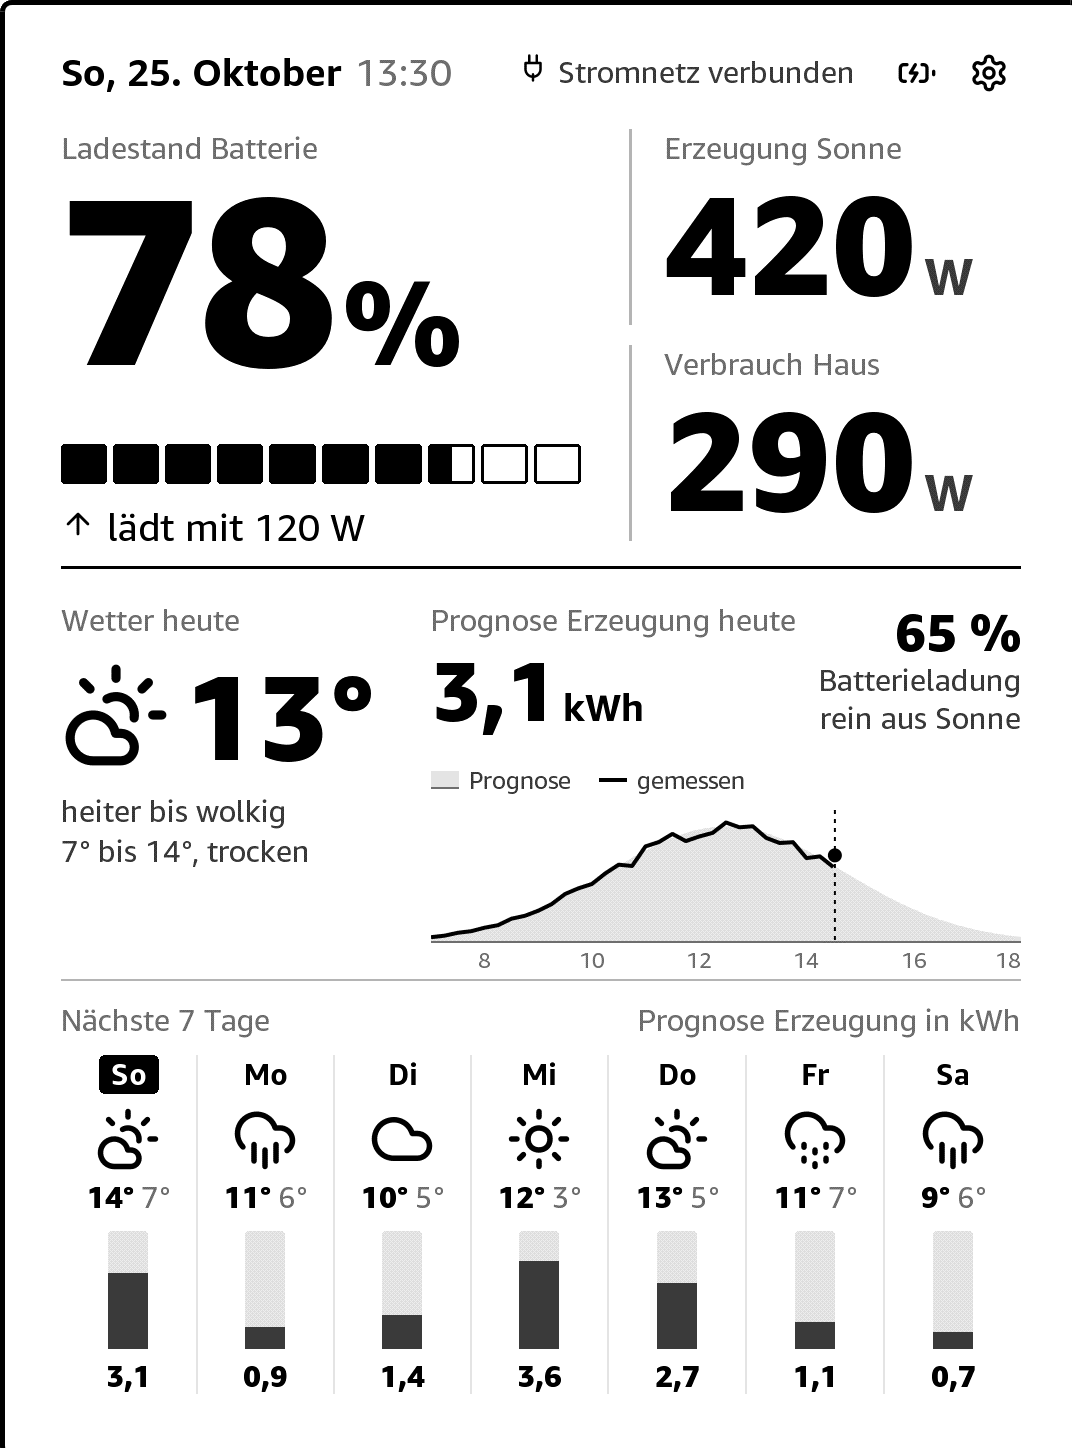
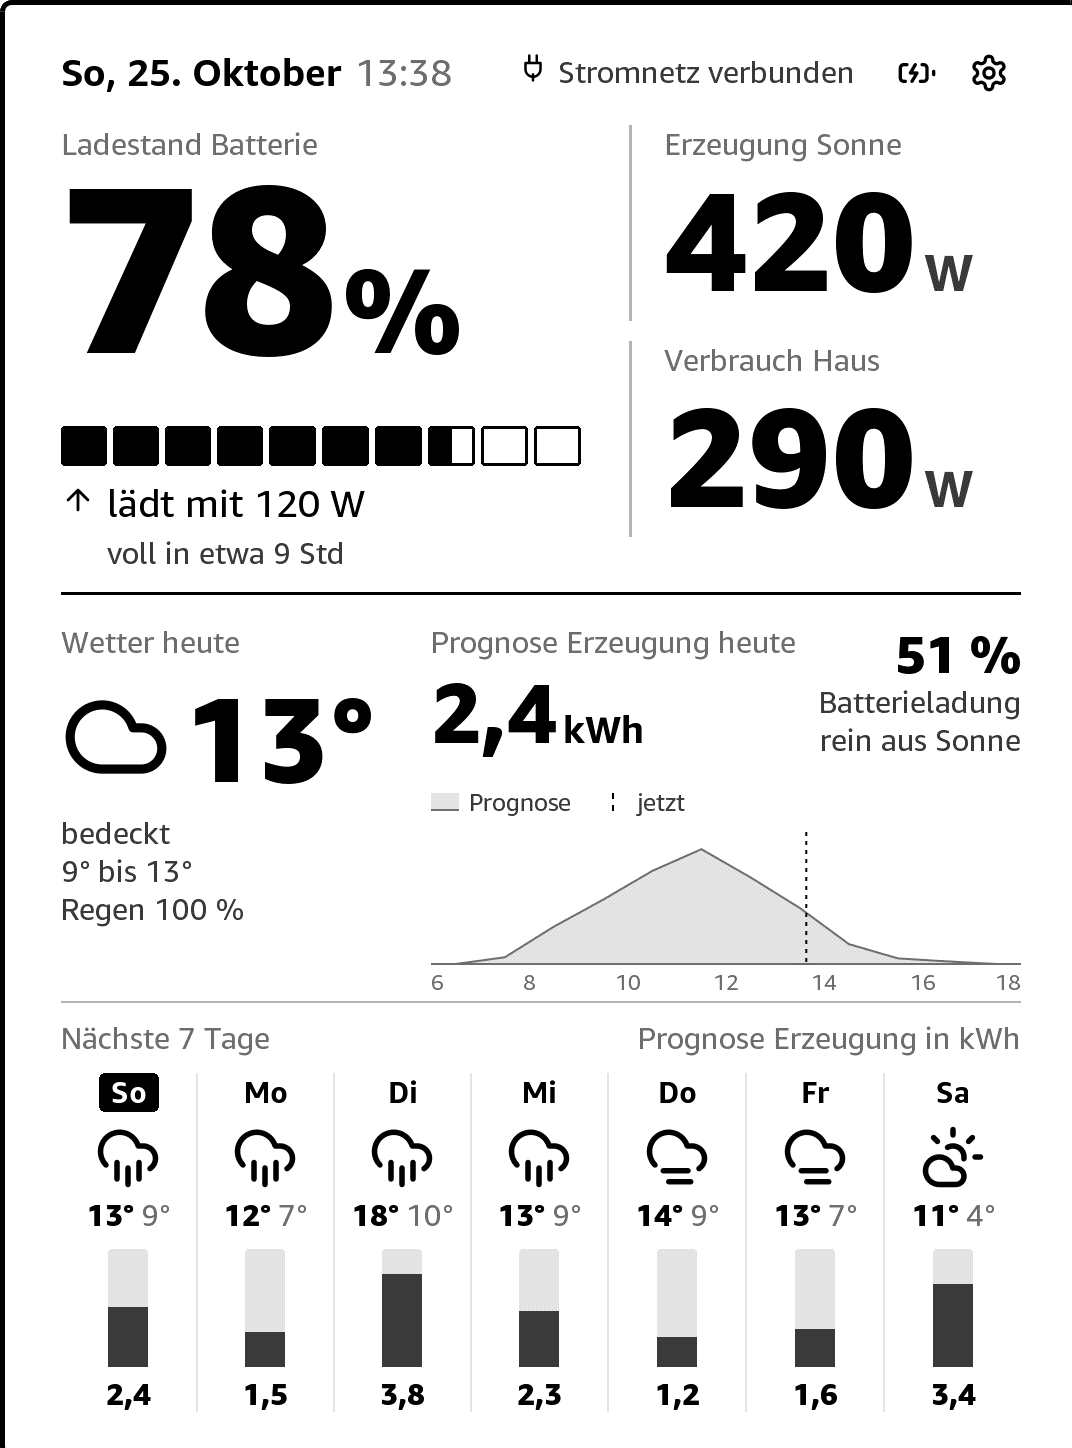
Echtes Wetter, PV-Prognose und Restzeit der Batterie
Wetter und Prognose kommen von Open-Meteo (DWD-Modelle, ohne Konto):
aktuelle Temperatur, 7 Tage mit Höchst- und Tiefstwert und
Regenwahrscheinlichkeit, dazu die Einstrahlung auf die geneigte
Modulfläche. Daraus die erwartete Erzeugung je Stunde und Tag. Die
Anlage ist vorerst mit Schätzwerten hinterlegt (Hamm, 1,2 kWp, 35°,
Süd, 80 % Wirkungsgrad), bis der Einrichtungsassistent sie abfragt.
Abruf alle 30 Minuten, die letzte Prognose bleibt 12 Stunden im
Speicher, falls das Netz fehlt.

Unter der Batterieleistung steht jetzt grob die Restzeit: »voll in
etwa 9 Std« beim Laden, »noch etwa 11 Std« beim Entladen. Im
Netzbetrieb bis zur ESS-Mindestladung von 70 %, bei Stromausfall
bis 10 %. Die Anlagenwerte selbst sind weiter Beispiele.

diff --git a/kindle/web/app.js b/kindle/web/app.js
@@ -7,30 +7,46 @@
 
   var AKKU_KWH = 4.8;
   var LADELEISTUNG_W = 1800;
+  // Untergrenzen fürs Entladen: im Netzbetrieb hält ESS die Mindestladung,
+  // bei Stromausfall läuft der Akku bis zur Abschaltung. Später vom GX lesen.
+  var MIN_SOC_NETZ = 70;
+  var MIN_SOC_AUSFALL = 10;
+
+  // Standort und Anlage, später aus dem Einrichtungsassistenten
+  var ANLAGE = { lat: 51.68, lon: 7.82, kwp: 1.2, neigung: 35, azimut: 0, wirkungsgrad: 0.8 };
+  var WETTER_MINUTEN = 30;
   var WOCHENTAGE = ["So", "Mo", "Di", "Mi", "Do", "Fr", "Sa"];
   var MONATE = ["Januar", "Februar", "März", "April", "Mai", "Juni", "Juli",
     "August", "September", "Oktober", "November", "Dezember"];
 
-  // Beispielwerte, später vom GX (Node-RED) und von Open-Meteo
-  var daten = {
-    soc: 78,
-    akkuW: 120,
-    pvW: 420,
-    hausW: 290,
-    stromausfallSeit: "14:05",
-    letzteWerte: "14:12",
-    wetter: { icon: "sonne-wolke", temp: 13, text: "heiter bis wolkig", min: 7, max: 14, regen: "trocken" },
-    kwhHeute: 3.1,
-    woche: [
-      ["sonne-wolke", 14, 7, 3.1],
-      ["regen", 11, 6, 0.9],
-      ["wolke", 10, 5, 1.4],
-      ["sonne", 12, 3, 3.6],
-      ["sonne-wolke", 13, 5, 2.7],
-      ["niesel", 11, 7, 1.1],
-      ["regen", 9, 6, 0.7]
-    ]
+  // Anlagenwerte sind noch Beispiele, später vom GX (Node-RED)
+  var BEISPIEL = {
+    normal: { soc: 78, akkuW: 120, pvW: 420, hausW: 290 },
+    netzausfall: { soc: 78, akkuW: -290, pvW: 0, hausW: 290 }
   };
+  var daten = {
+    soc: 78, akkuW: 120, pvW: 420, hausW: 290,
+    stromausfallSeit: "14:05",
+    letzteWerte: "14:12"
+  };
+
+  // Wetter und Prognose von Open-Meteo, aufbereitet von prognoseAufbereiten()
+  var prognose = null;
+
+  // WMO-Wettercodes zu Symbol und Text
+  var WETTER = {
+    0: ["sonne", "klar"], 1: ["sonne", "überwiegend klar"], 2: ["sonne-wolke", "teils bewölkt"],
+    3: ["wolke", "bedeckt"], 45: ["nebel", "Nebel"], 48: ["nebel", "Reifnebel"],
+    51: ["niesel", "leichter Niesel"], 53: ["niesel", "Niesel"], 55: ["niesel", "starker Niesel"],
+    56: ["niesel", "gefrierender Niesel"], 57: ["niesel", "gefrierender Niesel"],
+    61: ["regen", "leichter Regen"], 63: ["regen", "Regen"], 65: ["regen", "starker Regen"],
+    66: ["regen", "gefrierender Regen"], 67: ["regen", "gefrierender Regen"],
+    71: ["schnee", "leichter Schnee"], 73: ["schnee", "Schnee"], 75: ["schnee", "starker Schnee"],
+    77: ["schnee", "Schneegriesel"], 80: ["regen", "Regenschauer"], 81: ["regen", "Regenschauer"],
+    82: ["regen", "starke Schauer"], 85: ["schnee", "Schneeschauer"], 86: ["schnee", "Schneeschauer"],
+    95: ["gewitter", "Gewitter"], 96: ["gewitter", "Gewitter mit Hagel"], 99: ["gewitter", "Gewitter mit Hagel"]
+  };
+  function wetterCode(c) { return WETTER[c] || ["wolke", ""]; }
 
   var einstellungen = { ausrichtung: "hoch", zustand: "normal" };
   var netzladung = false;
@@ -92,7 +108,36 @@
     $("laden-knopf").className = "knopf-icon" + (netzladung ? " aktiv" : "");
   }
 
+  // Grob reicht: ab 2 Stunden ganze Stunden, darunter Minuten in Zehnern
+  function dauer(stunden) {
+    if (stunden > 48) { return "über 2 Tage"; }
+    if (stunden >= 2) { return Math.round(stunden) + " Std"; }
+    return Math.max(10, Math.round(stunden * 6) * 10) + " Min";
+  }
+
+  // Wie lange reicht der Akku, oder wann ist er voll
+  function restzeit() {
+    var w = daten.akkuW, kwh;
+    if (netzladung) {
+      kwh = (100 - daten.soc) / 100 * AKKU_KWH;
+      return kwh > 0 ? "voll in etwa " + dauer(kwh * 1000 / LADELEISTUNG_W) : "";
+    }
+    if (w > 30 && daten.soc < 100) {
+      kwh = (100 - daten.soc) / 100 * AKKU_KWH;
+      return "voll in etwa " + dauer(kwh * 1000 / w);
+    }
+    if (w < -30) {
+      var grenze = einstellungen.zustand === "netzausfall" ? MIN_SOC_AUSFALL : MIN_SOC_NETZ;
+      kwh = (daten.soc - grenze) / 100 * AKKU_KWH;
+      if (kwh <= 0) { return "Reserve erreicht"; }
+      return "noch etwa " + dauer(kwh * 1000 / -w);
+    }
+    return "";
+  }
+
   function hauptwerte() {
+    var b = BEISPIEL[einstellungen.zustand === "netzausfall" ? "netzausfall" : "normal"], k;
+    for (k in b) { if (b.hasOwnProperty(k)) { daten[k] = b[k]; } }
     $("soc").innerHTML = daten.soc + "<span>%</span>";
     var zellen = "", i, voll = daten.soc / 10;
     for (i = 0; i < 10; i++) {
@@ -104,61 +149,140 @@
     } else if (daten.akkuW >= 0) {
       $("richtung").innerHTML = icon("pfeil-hoch") + "lädt mit " + daten.akkuW + " W";
     } else {
-      $("richtung").innerHTML = icon("pfeil-runter") + "gibt " + (-daten.akkuW) + " W ab";
+      $("richtung").innerHTML = icon("pfeil-runter") + "entlädt mit " + (-daten.akkuW) + " W";
     }
+    $("restzeit").innerHTML = restzeit();
     $("pv").innerHTML = daten.pvW + "<span>W</span>";
     $("haus").innerHTML = daten.hausW + "<span>W</span>";
     $("letzte-werte").innerHTML = "letzte Werte um " + daten.letzteWerte;
   }
 
-  function wetter() {
-    var w = daten.wetter;
-    $("wetter-icon").innerHTML = '<use xlink:href="#' + w.icon + '"/>';
-    $("temp").innerHTML = w.temp + "°";
-    $("wetter-text").innerHTML = w.text + "<br>" + w.min + "° bis " + w.max + "°, " + w.regen;
-    $("kwh-heute").innerHTML = komma(daten.kwhHeute, 1) + "<span>kWh</span>";
-    $("anteil").innerHTML = Math.round(daten.kwhHeute / AKKU_KWH * 100) + " %";
+  // --- Wetter und Prognose ---------------------------------------------------
+
+  function wetterUrl() {
+    return "https://api.open-meteo.com/v1/forecast?latitude=" + ANLAGE.lat + "&longitude=" + ANLAGE.lon +
+      "&current=temperature_2m,weather_code" +
+      "&daily=weather_code,temperature_2m_max,temperature_2m_min,precipitation_probability_max" +
+      "&hourly=global_tilted_irradiance&tilt=" + ANLAGE.neigung + "&azimuth=" + ANLAGE.azimut +
+      "&timezone=Europe%2FBerlin&forecast_days=7";
   }
 
-  // Tageskurve: erwartete Leistung als Fläche, gemessene als Linie bis jetzt
+  // Erzeugung je Stunde in W: Einstrahlung auf die Modulfläche mal Leistung mal Verluste
+  function watt(gti) { return ANLAGE.kwp * gti * ANLAGE.wirkungsgrad; }
+
+  function prognoseAufbereiten(r) {
+    var tage = [], stunden = {}, i, datum, stunde;
+    for (i = 0; i < r.hourly.time.length; i++) {
+      datum = r.hourly.time[i].substr(0, 10);
+      stunde = parseInt(r.hourly.time[i].substr(11, 2), 10);
+      if (!stunden[datum]) { stunden[datum] = []; }
+      stunden[datum][stunde] = watt(r.hourly.global_tilted_irradiance[i] || 0);
+    }
+    for (i = 0; i < r.daily.time.length; i++) {
+      datum = r.daily.time[i];
+      var summe = 0, s, w = stunden[datum] || [];
+      for (s = 0; s < w.length; s++) { summe += w[s] || 0; }
+      tage.push({
+        datum: datum,
+        code: r.daily.weather_code[i],
+        max: Math.round(r.daily.temperature_2m_max[i]),
+        min: Math.round(r.daily.temperature_2m_min[i]),
+        regen: r.daily.precipitation_probability_max[i],
+        kwh: summe / 1000,
+        stunden: w
+      });
+    }
+    return {
+      geholt: new Date().getTime(),
+      temp: Math.round(r.current.temperature_2m),
+      code: r.current.weather_code,
+      tage: tage
+    };
+  }
+
+  function wetterHolen() {
+    var x = new XMLHttpRequest();
+    x.open("GET", wetterUrl(), true);
+    x.onreadystatechange = function () {
+      if (x.readyState !== 4) { return; }
+      if (x.status === 200) {
+        try {
+          prognose = prognoseAufbereiten(JSON.parse(x.responseText));
+          localStorage.setItem("kindledash.prognose", JSON.stringify(prognose));
+        } catch (e) { /* alte Prognose bleibt stehen */ }
+        wetter(); kurve(); woche();
+      }
+    };
+    x.send();
+  }
+
+  function wetterAusSpeicher() {
+    try {
+      var p = JSON.parse(localStorage.getItem("kindledash.prognose") || "null");
+      // älter als 12 Stunden zeigen wir nicht mehr
+      if (p && new Date().getTime() - p.geholt < 12 * 3600000) { prognose = p; }
+    } catch (e) { /* ohne Speicher eben ohne */ }
+  }
+
+  function wetter() {
+    if (!prognose) { return; }
+    var h = prognose.tage[0], c = wetterCode(prognose.code);
+    // innerHTML in einem svg-Element kann der alte Browser nicht, also das ganze Symbol ersetzen
+    $("wetter-icon").innerHTML = icon(c[0]);
+    $("temp").innerHTML = prognose.temp + "°";
+    $("wetter-text").innerHTML = c[1] + "<br>" + h.min + "° bis " + h.max + "°<br>" +
+      (h.regen >= 20 ? "Regen " + h.regen + " %" : "trocken");
+    $("kwh-heute").innerHTML = komma(h.kwh, 1) + "<span>kWh</span>";
+    $("anteil").innerHTML = Math.min(100, Math.round(h.kwh / AKKU_KWH * 100)) + " %";
+  }
+
+  // Tageskurve: erwartete Leistung je Stunde als Fläche, dazu die aktuelle Uhrzeit.
+  // Die gemessene Linie kommt dazu, sobald der GX Werte liefert.
   function kurve() {
-    var W = ausrichtung() === "quer" ? 676 : 590, H = 170, unten = 140;
-    var von = 7, bis = 18, spitze = 640, h, s = 3, w;
+    if (!prognose) { return; }
+    var quer = ausrichtung() === "quer";
+    var W = quer ? 676 : 590, H = quer ? 160 : 170, unten = H - 30;
+    var w = prognose.tage[0].stunden, von = 24, bis = 0, spitze = 100, s;
+    for (s = 0; s < 24; s++) {
+      if ((w[s] || 0) > 5) { von = Math.min(von, s - 1); bis = Math.max(bis, s); }
+      spitze = Math.max(spitze, (w[s] || 0) * 1.15);
+    }
+    if (von >= bis) { von = 8; bis = 17; }
+    von = Math.floor(von / 2) * 2; bis = Math.ceil(bis / 2) * 2;
     function x(stunde) { return (stunde - von) / (bis - von) * W; }
-    function y(watt) { return unten - watt / spitze * (unten - 8); }
-    function erwartet(stunde) { return 560 * Math.exp(-Math.pow(stunde - 12.5, 2) / (2 * 2.2 * 2.2)); }
-    var flaeche = "M0 " + unten, linie = "";
-    for (h = von; h <= bis + 1e-9; h += 0.25) { flaeche += " L" + x(h).toFixed(1) + " " + y(erwartet(h)).toFixed(1); }
+    function y(wert) { return unten - wert / spitze * (unten - 8); }
+    // Open-Meteo gibt den Mittelwert der vorangegangenen Stunde, also eine halbe Stunde früher zeichnen
+    var flaeche = "M0 " + unten;
+    for (s = von; s <= bis; s++) { flaeche += " L" + x(Math.max(von, s - 0.5)).toFixed(1) + " " + y(w[s] || 0).toFixed(1); }
     flaeche += " L" + W + " " + unten + " Z";
-    var jetztH = 14.53;
-    for (h = von; h <= jetztH; h += 0.25) {
-      s = (s * 9301 + 49297) % 233280;
-      w = erwartet(h) * (0.9 + 0.16 * s / 233280);
-      linie += (linie ? " L" : "M") + x(h).toFixed(1) + " " + y(w).toFixed(1);
+    var achse = "", k;
+    for (k = von; k <= bis; k += 2) {
+      achse += '<text x="' + x(k) + '" y="' + (H - 4) + '" font-size="22" fill="#6e6e6e" text-anchor="' +
+        (k === von ? "start" : (k === bis ? "end" : "middle")) + '">' + k + "</text>";
     }
-    var achse = "", stunden = [8, 10, 12, 14, 16, 18], k;
-    for (k = 0; k < stunden.length; k++) {
-      achse += '<text x="' + x(stunden[k]) + '" y="166" font-size="22" fill="#6e6e6e" text-anchor="' +
-        (stunden[k] === 18 ? "end" : "middle") + '">' + stunden[k] + "</text>";
+    var jetzt = new Date(), jh = jetzt.getHours() + jetzt.getMinutes() / 60, marke = "";
+    if (jh > von && jh < bis) {
+      marke = '<line x1="' + x(jh) + '" y1="8" x2="' + x(jh) + '" y2="' + unten +
+        '" stroke="#000" stroke-width="2" stroke-dasharray="4 5"/>';
     }
-    var jx = x(jetztH);
     $("kurve").innerHTML = '<svg width="' + W + '" height="' + H + '" viewBox="0 0 ' + W + " " + H + '">' +
-      '<path d="' + flaeche + '" fill="#e4e4e4"/>' +
+      '<path d="' + flaeche + '" fill="#e4e4e4" stroke="#6e6e6e" stroke-width="2"/>' +
       '<line x1="0" y1="' + unten + '" x2="' + W + '" y2="' + unten + '" stroke="#6e6e6e" stroke-width="2"/>' +
-      '<path d="' + linie + '" fill="none" stroke="#000" stroke-width="4" stroke-linejoin="round"/>' +
-      '<line x1="' + jx + '" y1="8" x2="' + jx + '" y2="' + unten + '" stroke="#000" stroke-width="2" stroke-dasharray="4 5"/>' +
-      '<circle cx="' + jx + '" cy="' + y(daten.pvW) + '" r="7" fill="#000"/>' + achse + "</svg>";
+      marke + achse + "</svg>";
   }
 
   function woche() {
-    var heute = new Date().getDay(), html = "", i, t;
-    for (i = 0; i < daten.woche.length; i++) {
-      t = daten.woche[i];
+    if (!prognose) { return; }
+    var html = "", i, t, d;
+    for (i = 0; i < prognose.tage.length; i++) {
+      t = prognose.tage[i];
+      // der alte Browser liest ISO-Datumsangaben nicht zuverlässig, also selbst zerlegen
+      d = new Date(+t.datum.substr(0, 4), +t.datum.substr(5, 2) - 1, +t.datum.substr(8, 2), 12);
       html += '<div class="tag' + (i === 0 ? " heute-tag" : "") + '">' +
-        '<div class="name">' + WOCHENTAGE[(heute + i) % 7] + "</div>" + icon(t[0]) +
-        '<div class="t">' + t[1] + "°<span>" + t[2] + "°</span></div>" +
-        '<div class="saeule"><i style="height:' + Math.min(100, Math.round(t[3] / AKKU_KWH * 100)) + '%"></i></div>' +
-        '<div class="e">' + komma(t[3], 1) + "</div></div>";
+        '<div class="name">' + WOCHENTAGE[d.getDay()] + "</div>" + icon(wetterCode(t.code)[0]) +
+        '<div class="t">' + t.max + "°<span>" + t.min + "°</span></div>" +
+        '<div class="saeule"><i style="height:' + Math.min(100, Math.round(t.kwh / AKKU_KWH * 100)) + '%"></i></div>' +
+        '<div class="e">' + komma(t.kwh, 1) + "</div></div>";
     }
     $("woche").innerHTML = html;
   }
@@ -235,8 +359,12 @@
   }
 
   laden();
+  wetterAusSpeicher();
   alles();
   if (einstellungen.zustand === "laden") { oeffne("dialog-laden"); }
   document.addEventListener("click", klick, false);
   setInterval(kopf, 30000);
+  setInterval(kurve, 10 * 60000);
+  wetterHolen();
+  setInterval(wetterHolen, WETTER_MINUTEN * 60000);
 })();

diff --git a/kindle/web/app.css b/kindle/web/app.css
@@ -58,18 +58,19 @@ body.quer #kopf-hintergrund { height: 112px; }
 
 /* Hauptwerte */
 #haupt { position: absolute; }
-body.hoch #haupt { left: 56px; top: 124px; width: 960px; height: 440px; border-bottom: 3px solid #000; }
+body.hoch #haupt { left: 56px; top: 120px; width: 960px; height: 470px; border-bottom: 3px solid #000; }
 body.quer #haupt { left: 48px; top: 120px; width: 620px; height: 912px; }
 
-#akku .wert { font-size: 236px; line-height: 200px; margin-top: 8px; letter-spacing: -4px; }
+#akku .wert { font-size: 236px; line-height: 200px; margin-top: 0; letter-spacing: -4px; }
 #akku .wert span { font-size: 120px; margin-left: 8px; letter-spacing: 0; }
-.zellen { display: -webkit-box; height: 40px; margin-top: 24px; }
+.zellen { display: -webkit-box; height: 40px; margin-top: 18px; }
 .zellen i { display: block; -webkit-box-flex: 1; height: 40px; margin-right: 6px; border: 3px solid #000; border-radius: 4px; }
 .zellen i:last-child { margin-right: 0; }
 .zellen i.voll { background: #000; }
 .zellen i.halb { background: -webkit-linear-gradient(left, #000 50%, #fff 50%); }
-.richtung { margin-top: 20px; font-size: 38px; display: -webkit-box; -webkit-box-align: center; }
+.richtung { margin-top: 14px; font-size: 38px; display: -webkit-box; -webkit-box-align: center; }
 .richtung svg { width: 34px; height: 34px; margin-right: 12px; }
+.restzeit { margin-top: 6px; margin-left: 46px; font-size: 30px; color: #3a3a3a; white-space: nowrap; }
 body.hoch #akku { position: absolute; left: 0; top: 0; width: 520px; }
 body.quer #akku { position: absolute; left: 0; top: 10px; width: 620px; }
 
@@ -92,7 +93,7 @@ body.offline #getrennt { display: block; }
 
 /* Heute */
 #heute { position: absolute; }
-body.hoch #heute { left: 56px; top: 596px; width: 960px; height: 380px; border-bottom: 2px solid #b4b4b4; }
+body.hoch #heute { left: 56px; top: 618px; width: 960px; height: 380px; border-bottom: 2px solid #b4b4b4; }
 body.quer #heute { left: 724px; top: 120px; width: 676px; height: 520px; border-bottom: 2px solid #b4b4b4; }
 body.quer #haupt { border-right: 0; }
 #trenner { display: none; position: absolute; left: 696px; top: 130px; width: 3px; height: 900px; background: #000; }
@@ -100,9 +101,10 @@ body.quer #trenner { display: block; }
 
 #wetter { position: absolute; left: 0; top: 0; width: 350px; }
 #wetter .zeile { height: 130px; margin-top: 10px; white-space: nowrap; }
+#wetter-icon, #wetter-icon svg { display: inline-block; vertical-align: middle; }
 #wetter .zeile svg { display: inline-block; vertical-align: middle; width: 110px; height: 110px; margin-right: 14px; }
 #wetter .temp { display: inline-block; vertical-align: middle; font-size: 120px; line-height: 130px; }
-#wetter .text { font-size: 30px; color: #3a3a3a; margin-top: 12px; line-height: 40px; }
+#wetter .text { font-size: 30px; color: #3a3a3a; margin-top: 12px; line-height: 38px; white-space: nowrap; }
 #prognose { position: absolute; }
 body.hoch #prognose { left: 370px; top: 0; width: 590px; }
 /* Querformat: Wetter links oben, Prognose rechts daneben, Kurve über die ganze Breite */
@@ -111,7 +113,8 @@ body.quer #wetter .temp { font-size: 104px; }
 body.quer #wetter .zeile svg { width: 96px; height: 96px; }
 body.quer .prognose-kopf .label { font-size: 26px; }
 body.quer #prognose { left: 0; top: 0; width: 676px; }
-body.quer .prognose-kopf { display: block; margin-left: 330px; height: 276px; }
+body.quer .prognose-kopf { display: block; margin-left: 330px; height: 300px; }
+body.quer #kurve { height: 160px; }
 body.quer .anteil { text-align: left; margin-top: 14px; }
 .prognose-kopf { display: -webkit-box; -webkit-box-align: start; }
 .prognose-kopf .links { -webkit-box-flex: 1; }
@@ -123,13 +126,13 @@ body.quer .anteil { text-align: left; margin-top: 14px; }
 .legende span { display: -webkit-box; -webkit-box-align: center; margin-right: 28px; }
 .legende i { display: block; width: 28px; margin-right: 10px; }
 .legende .flaeche-m { height: 18px; background: #e4e4e4; border-bottom: 2px solid #6e6e6e; }
-.legende .linie-m { height: 4px; background: #000; }
+.legende .jetzt-m { height: 18px; width: 2px; margin-left: 13px; margin-right: 23px; border-left: 2px dashed #000; }
 #kurve { margin-top: 6px; height: 170px; }
 #kurve svg { display: block; }
 
 /* Woche */
 #woche-bereich { position: absolute; }
-body.hoch #woche-bereich { left: 56px; top: 996px; width: 960px; height: 420px; }
+body.hoch #woche-bereich { left: 56px; top: 1014px; width: 960px; height: 420px; }
 body.quer #woche-bereich { left: 724px; top: 660px; width: 676px; height: 380px; }
 .woche-kopf { height: 38px; }
 .woche-kopf .rechts-label { float: right; }

diff --git a/kindle/web/index.html b/kindle/web/index.html
@@ -14,6 +14,9 @@
     <symbol id="sonne-wolke" viewBox="0 0 24 24"><path d="M12 2v2M4.93 4.93l1.41 1.41M20 12h2M19.07 4.93l-1.41 1.41M15.95 12.65a4 4 0 0 0-5.93-4.13M13 22H7a5 5 0 1 1 4.9-6H13a3 3 0 0 1 0 6Z"/></symbol>
     <symbol id="regen" viewBox="0 0 24 24"><path d="M4 14.9A7 7 0 1 1 15.71 8h1.79a4.5 4.5 0 0 1 2.5 8.24M16 14v6M8 14v6M12 16v6"/></symbol>
     <symbol id="niesel" viewBox="0 0 24 24"><path d="M4 14.9A7 7 0 1 1 15.71 8h1.79a4.5 4.5 0 0 1 2.5 8.24M8 19v1M8 14v1M16 19v1M16 14v1M12 21v1M12 16v1"/></symbol>
+    <symbol id="nebel" viewBox="0 0 24 24"><path d="M4 14.9A7 7 0 1 1 15.71 8h1.79a4.5 4.5 0 0 1 2.5 8.24M16 17H7M17 21H9"/></symbol>
+    <symbol id="schnee" viewBox="0 0 24 24"><path d="M4 14.9A7 7 0 1 1 15.71 8h1.79a4.5 4.5 0 0 1 2.5 8.24M8 15h.01M8 19h.01M12 17h.01M12 21h.01M16 15h.01M16 19h.01"/></symbol>
+    <symbol id="gewitter" viewBox="0 0 24 24"><path d="M6 16.33A7 7 0 1 1 15.71 8h1.79a4.5 4.5 0 0 1 .5 8.97M13 12l-3 5h4l-3 5"/></symbol>
     <symbol id="stecker" viewBox="0 0 24 24"><path d="M12 22v-5M9 8V2M15 8V2M18 8v5a6 6 0 0 1-12 0V8Z"/></symbol>
     <symbol id="stecker-aus" viewBox="0 0 24 24"><path d="M12 22v-5M9 8V2M15 8V2M18 8v5a6 6 0 0 1-12 0V8ZM2 2l20 20"/></symbol>
     <symbol id="wlan-aus" viewBox="0 0 24 24"><path d="M12 20h.01M8.5 16.43a5 5 0 0 1 7 0M2 8.82a15 15 0 0 1 4.17-2.65M10.66 5c4.01-.36 8.14.9 11.34 3.76M16.85 11.25a10 10 0 0 1 2.22 1.68M5 13a10 10 0 0 1 5.24-2.76M2 2l20 20"/></symbol>
@@ -42,6 +45,7 @@
       <div class="wert" id="soc"></div>
       <div class="zellen" id="zellen"></div>
       <div class="richtung" id="richtung"></div>
+      <div class="restzeit" id="restzeit"></div>
     </div>
     <div id="fluss">
       <div class="fluss-wert" id="pv-block"><div class="label">Erzeugung Sonne</div><div class="wert" id="pv"></div></div>
@@ -57,7 +61,7 @@
   <div id="heute">
     <div id="wetter">
       <div class="label">Wetter heute</div>
-      <div class="zeile"><svg class="i" id="wetter-icon"><use xlink:href="#sonne-wolke"/></svg><span class="temp" id="temp"></span></div>
+      <div class="zeile"><span id="wetter-icon"></span><span class="temp" id="temp"></span></div>
       <div class="text" id="wetter-text"></div>
     </div>
     <div id="prognose">
@@ -65,7 +69,7 @@
         <div class="links"><div class="label">Prognose Erzeugung heute</div><div class="kwh" id="kwh-heute"></div></div>
         <div class="anteil"><b id="anteil"></b>Batterieladung<br>rein aus Sonne</div>
       </div>
-      <div class="legende"><span><i class="flaeche-m"></i>Prognose</span><span><i class="linie-m"></i>gemessen</span></div>
+      <div class="legende"><span><i class="flaeche-m"></i>Prognose</span><span><i class="jetzt-m"></i>jetzt</span></div>
       <div id="kurve"></div>
     </div>
   </div>
